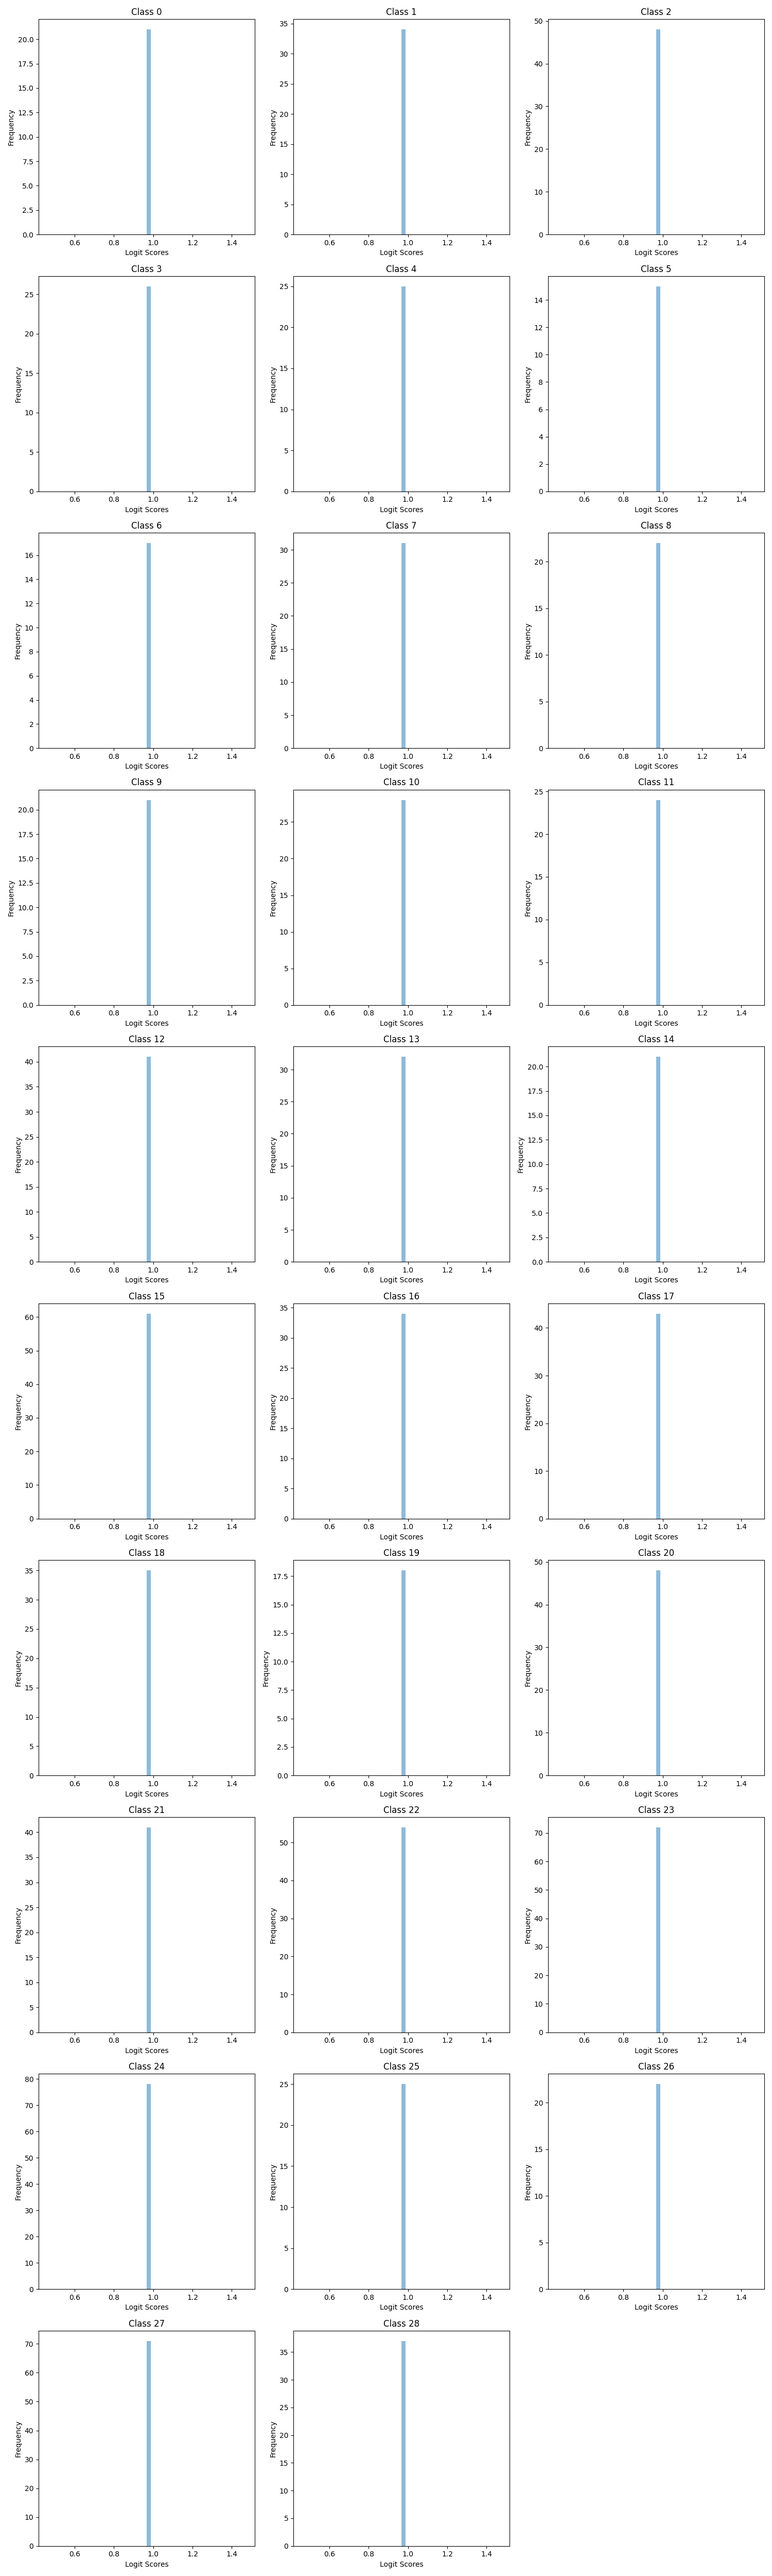
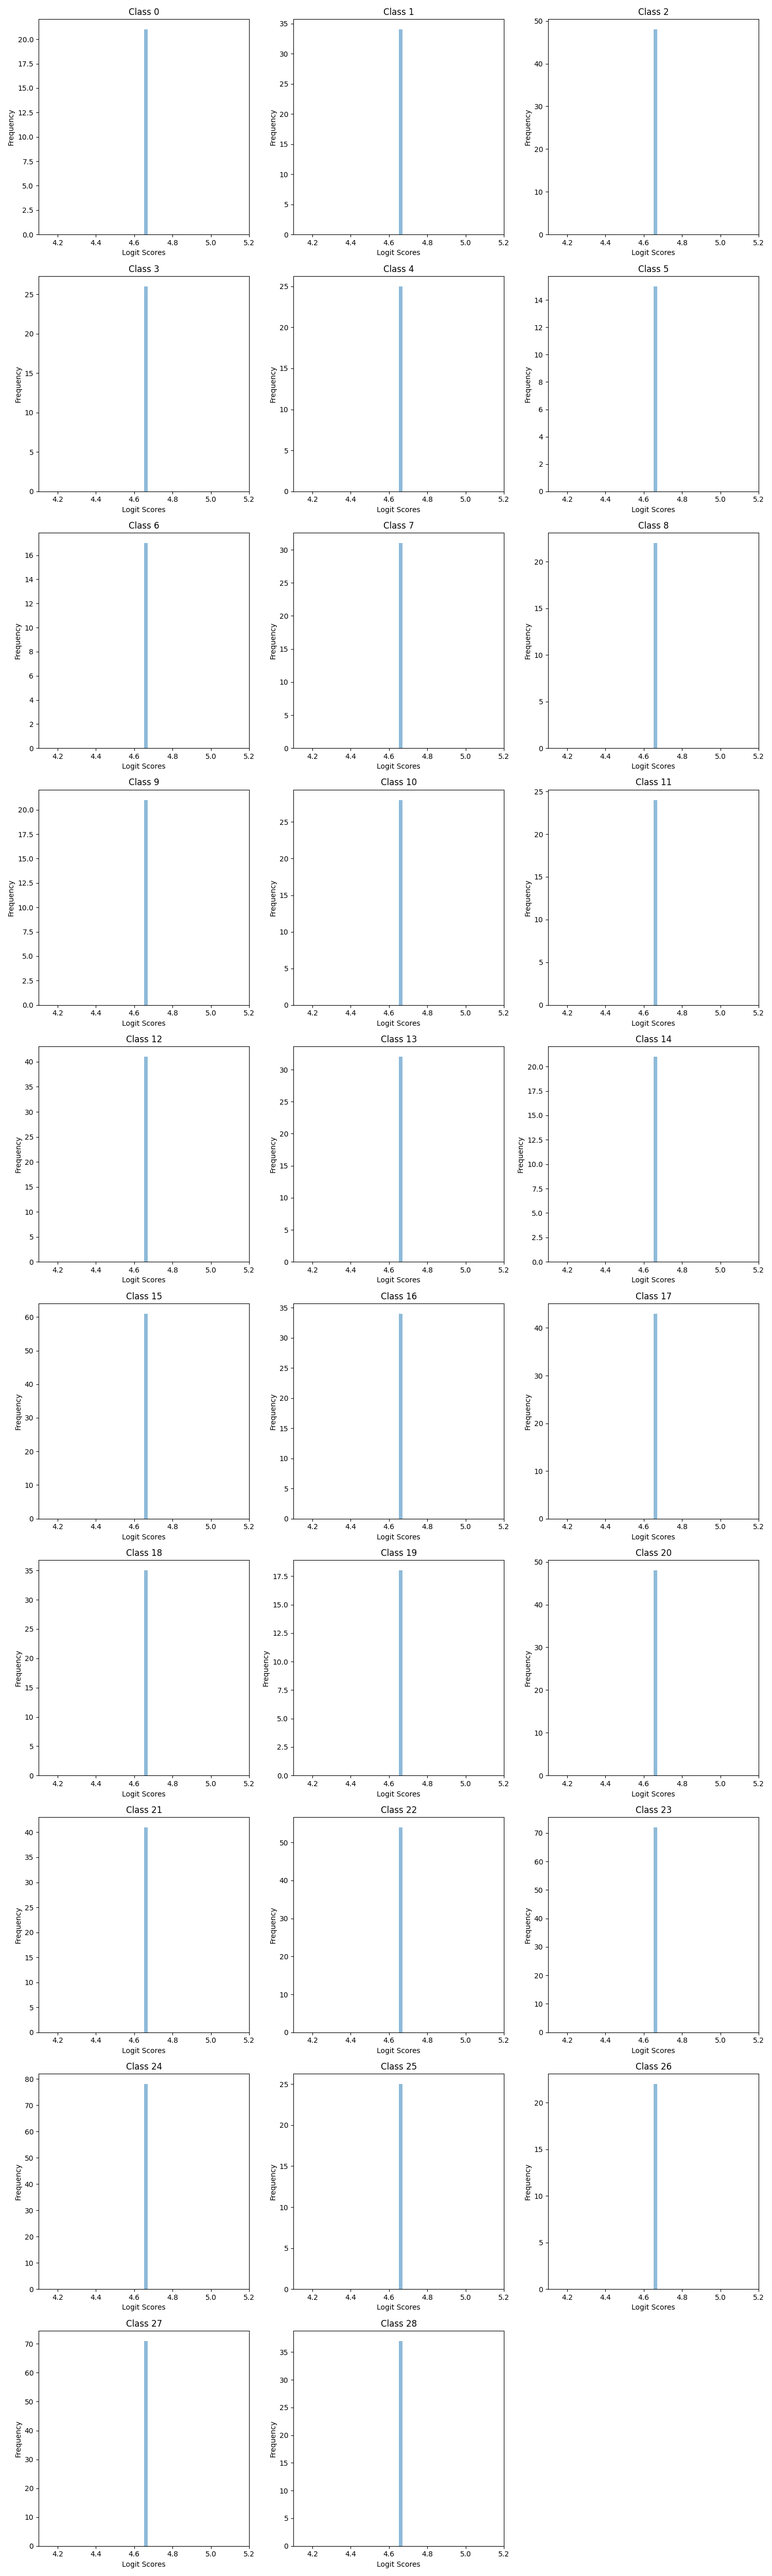
playing with the histogram sscores

Changed region(s): [[0.4907, 0.0, 0.552, 0.9984], [0.184, 0.0, 0.2147, 0.9984], [0.828, 0.0, 0.8587, 0.9048]]

diff --git a/ct_classifier/dataset.py b/ct_classifier/dataset.py
@@ -18,7 +18,11 @@ from torch.utils.data import Dataset
 from torchvision.transforms import Compose, Resize, ToTensor, Lambda, Pad, functional, RandomHorizontalFlip,RandomAdjustSharpness
 from PIL import Image
 import math
-
+import matplotlib.pyplot as plt
+import numpy as np
+import cv2
+import math
+import random
 
 class CTDataset(Dataset):
 
@@ -61,8 +65,112 @@ class CTDataset(Dataset):
                 img = padder(img)
 
                 return img
-            
         
+    def rotatedRectWithMaxArea(w, h, angle):
+        """
+        Given a rectangle of size wxh that has been rotated by 'angle' (in
+        radians), computes the width and height of the largest possible
+        axis-aligned rectangle (maximal area) within the rotated rectangle.
+        """
+        if w <= 0 or h <= 0:
+            return 0,0
+
+        width_is_longer = w >= h
+        side_long, side_short = (w,h) if width_is_longer else (h,w)
+
+        # since the solutions for angle, -angle and 180-angle are all the same,
+        # if suffices to look at the first quadrant and the absolute values of sin,cos:
+        sin_a, cos_a = abs(math.sin(angle)), abs(math.cos(angle))
+        if side_short <= 2.*sin_a*cos_a*side_long or abs(sin_a-cos_a) < 1e-10:
+        # half constrained case: two crop corners touch the longer side,
+        #   the other two corners are on the mid-line parallel to the longer line
+            x = 0.5*side_short
+            wr,hr = (x/sin_a,x/cos_a) if width_is_longer else (x/cos_a,x/sin_a)
+        else:
+            # fully constrained case: crop touches all 4 sides
+            cos_2a = cos_a*cos_a - sin_a*sin_a
+            wr,hr = (w*cos_a - h*sin_a)/cos_2a, (h*cos_a - w*sin_a)/cos_2a
+
+        return int(wr),int(hr)
+
+
+    class CageAugmenter: 
+        def __init__(self): # what stays fixed - but we don't add size? since we will copy paste images, do I nee
+            # to list the self.resolution
+            self.resolution = [1000, 1000]
+            self.num_bars_x = 4
+            self.num_bars_y = 6
+            self.kernel = [30, 30]
+            self.color_alpha = 0.3
+
+        def __call__(self, img):
+            # #set parameters
+            # resolution = [1000, 1000]
+            # num_bars_x = 4
+            # num_bars_y = 6
+            # kernel = [30, 30]
+            # mask_color = [181, 148, 16]
+            # color_alpha = .3
+
+            # # Parameters that we will randomise, generate random values for bar radius, color, and rotation
+            # bar_radius_range = [10, 30]  # You can adjust the range as needed
+            # bar_radius = random.uniform(*bar_radius_range)
+
+            # # Random color
+            # random_color = [random.randint(0, 255) for _ in range(3)]
+            # mask_color = random_color
+            # rotate_range = [-20, 20]  # Rotation range in degrees
+            # rotate = math.radians(random.uniform(*rotate_range))
+
+            # add the parameters that you want to randomise
+            img = img
+            # Parameters that you randomize
+            bar_radius_range = [10, 30]
+            bar_radius = random.uniform(*bar_radius_range)
+
+            random_color = [random.randint(0, 255) for _ in range(3)]
+            mask_color = random_color
+
+            rotate_range = [-20, 20]
+            rotate = math.radians(random.uniform(*self.rotate_range))
+
+            # Create mask
+            bar_pos_x = [int(i) for i in np.linspace(0, self.resolution[0], self.num_bars_x)]
+            bar_pos_y = [int(i) for i in np.linspace(0, self.resolution[1], self.num_bars_y)]
+            bar_locs_x = []
+            bar_locs_y = []
+            for i in bar_pos_x:
+                bar_locs_x.extend([j for j in range(max(0, i - bar_radius), min(i + bar_radius, self.resolution[0]))])
+            for i in bar_pos_y:
+                bar_locs_y.extend([j for j in range(max(0, i - bar_radius), min(i + bar_radius, self.resolution[1]))])
+            mask = np.ones(self.resolution)
+            for i in range(self.resolution[0]):
+                for j in range(self.resolution[1]):
+                    if i in bar_locs_x or j in bar_locs_y:
+                        mask[i, j] = 0
+                        mask = cv2.blur(mask, self.kernel, cv2.BORDER_DEFAULT)
+                        mask = np.array(Image.fromarray(mask).rotate(rotate))
+
+            # taking a center crop to remove the rotation artifacts
+            plt.imshow(np.array(mask))
+            crop_size = rotatedRectWithMaxArea(mask.shape[0], mask.shape[1], rotate)
+            x_boundary = int((mask.shape[0]-crop_size[0])/2)
+            y_boundary = int((mask.shape[1]-crop_size[1])/2)
+            mask = mask[x_boundary:-x_boundary, y_boundary:-y_boundary]
+
+            # resize and tile
+            mask = cv2.resize(mask, img.size)
+            np.expand_dims(mask, 2).shape
+            np.tile(np.expand_dims(mask, 2), (1,1,3)).shape
+            tiled_mask = np.tile(np.expand_dims(mask, 2), (1,1,3))
+
+            #add bar color
+            inv_mask = 1-tiled_mask
+            color = [self.color_alpha * i for i in mask_color]
+            color_mask = color * inv_mask
+            new_img = img*tiled_mask+color_mask
+            return new_img 
+
         # https://stackoverflow.com/questions/76064717/pytorch-resize-specific-dimension-while-keeping-aspect-ratio
         # for half of the resize function
 
@@ -76,8 +184,7 @@ class CTDataset(Dataset):
 
         # RandomShadow
         # CutOut or RandomErasing(p=0.5)
-        # GaussianBlur(5),
-
+        # GaussianBlur(5)
         
         # index data into list
         self.data = []

diff --git a/ct_classifier/testing_metrics.py b/ct_classifier/testing_metrics.py
@@ -11,10 +11,9 @@ import yaml
 import pickle 
 
 from train import create_dataloader, load_model # experiment should add the confusion matrix to the cometML experiment    # NOTE: since we're using these functions across files, it could make sense to put them in e.g. a "util.py" script.
-from sklearn.metrics import confusion_matrix, average_precision_score, precision_recall_curve, ConfusionMatrixDisplay
+from sklearn.metrics import confusion_matrix, average_precision_score, precision_recall_curve, ConfusionMatrixDisplay, plot_confusion_matrix
 from sklearn.preprocessing import label_binarize
 import torch.nn.functional as functional  # Import functional
-
 
 from util import * # To import the init seed from the util.py file in the same folder named ct_classifier
 
@@ -109,44 +108,68 @@ plt.title('Histogram of Positive and Negative Class Scores')
 plt.legend()
 # plt.show()
 plt.savefig('Histogram Scores')
+# ...
+
+# ...
 
 # Initialize lists to hold scores for each class
-class_scores = [[] for _ in range(num_classes)]
+softmax_class_scores = [[] for _ in range(num_classes)]
+logit_class_scores = [[] for _ in range(num_classes)]
 
 for i in range(len(labels_list)):
-    # pred_score = max_pred_list[i].detach().numpy()
     softmax_scores = functional.softmax(max_pred_list[i], dim=0).detach().numpy()
-    class_label = labels_list[i].item()  # Convert tensor to Python scalar
-    class_scores[class_label].append(pred_score)
+    logit_scores = max_pred_list[i].detach().numpy()  # Get logit scores
+    
+    class_label = labels_list[i].item()
+    softmax_class_scores[class_label].append(softmax_scores)
+    logit_class_scores[class_label].append(logit_scores)
 
-# Create subplots for histograms
-num_bins = 50  # You can adjust this value based on your preference
-num_rows = (num_classes + 2) // 3  # Adjust the number of rows based on the number of classes
+# ...
+
+# Create subplots for softmax scores histograms
+num_rows = (num_classes + 2) // 3
 fig, axes = plt.subplots(num_rows, 3, figsize=(15, 5 * num_rows))
-fig.subplots_adjust(hspace=0.5)  # Adjust vertical spacing
+fig.subplots_adjust(hspace=0.5)
 
-for class_label, scores in enumerate(class_scores):
+for class_label, scores in enumerate(softmax_class_scores):
     row = class_label // 3
     col = class_label % 3
     ax = axes[row, col]
     
-    ax.hist(scores, bins=num_bins, alpha=0.5)
-    ax.set_title(f'Class {class_label}') #this just plots Class_Name_0
-    # ax.set_title(f'Class: {class_names[class_label]}')  # Set the title to the class name
-    ax.set_xlabel('Logit Scores') # or Softmax scores
+    for score_array in scores:
+        ax.hist(score_array, bins=num_bins, alpha=0.5)  # Plot softmax_scores array
+        
+    ax.set_title(f'Class {class_label}')
+    ax.set_xlabel('Softmax Scores')
     ax.set_ylabel('Frequency')
 
-# Remove empty subplots if there are fewer classes than rows*columns
-for class_label in range(num_classes, num_rows * 3):
-    row = class_label // 3
-    col = class_label % 3
-    fig.delaxes(axes[row, col])
+# ...
 
 plt.tight_layout()
-# plt.show()
 plt.savefig('Softmax_Scores_Per_Class_Panel.png')
 
+# ...
 
+# Create subplots for logit scores histograms
+fig, axes = plt.subplots(num_rows, 3, figsize=(15, 5 * num_rows))
+fig.subplots_adjust(hspace=0.5)
+
+for class_label, scores in enumerate(logit_class_scores):
+    row = class_label // 3
+    col = class_label % 3
+    ax = axes[row, col]
+    
+    for score_array in scores:
+        ax.hist(score_array, bins=num_bins, alpha=0.5)  # Plot logit_scores array
+        
+    ax.set_title(f'Class {class_label}')
+    ax.set_xlabel('Logit Scores')
+    ax.set_ylabel('Frequency')
+
+# ...
+
+plt.tight_layout()
+plt.savefig('Logit_Scores_Per_Class_Panel.png')
 
 # this would just print the last batch as a batch sized tensor
 # print (labels)
@@ -176,6 +199,7 @@ n_classes = one_hot_preds.shape[1]
 
 # auprc = average_precision_score(labels.detach().cpu().numpy() , prediction.detach().cpu().numpy(),average=None)
 auprc = average_precision_score(one_hot_labels, one_hot_preds,average=None)
+print ("The average precision score on the validation data")
 print (auprc)
 # print (pred_list)
 
@@ -283,8 +307,30 @@ plt.tight_layout()
 plt.show()
 plt.savefig('Sample Of Bad Classes.png')
 
-
 existing_experiment.log_confusion_matrix(matrix=cm1, title="Confusion Matrix 1", labels=unique_names_label_list) # images=inputs,
+
+# Plot the confusion matrix using sklearn's plot_confusion_matrix locally
+# ...
+
+
+
+# Plot the confusion matrix using imshow
+plt.figure(figsize=(10, 8))
+plt.imshow(cm1, interpolation='nearest', cmap=plt.cm.Blues)
+plt.title('Confusion Matrix')
+plt.colorbar()
+
+# Set class labels as ticks
+plt.xticks(np.arange(len(unique_names_label_list)), unique_names_label_list, rotation=45)
+plt.yticks(np.arange(len(unique_names_label_list)), unique_names_label_list)
+
+# Ensure labels are properly shown
+plt.tight_layout()
+
+# Save the confusion matrix plot
+plt.savefig(f'{cfg["experiment_name"]}_confusion_matrix.png')
+
+
 existing_experiment.end()
 
 # you should just be able to log the confusion matrix again with another line with a diffe
